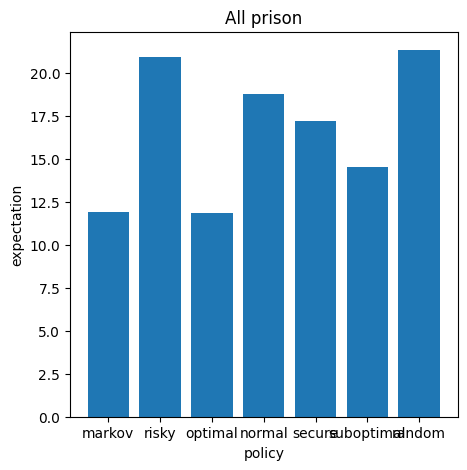
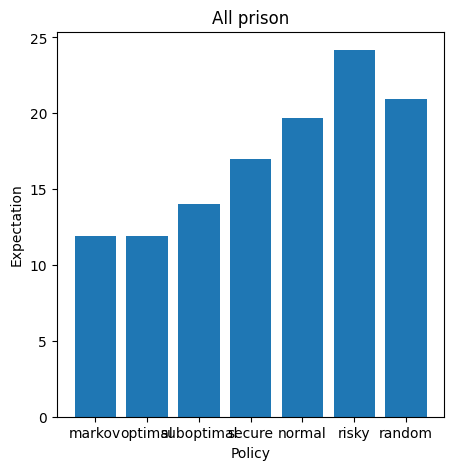
plots

Changed region(s): [[0.0, 0.0596, 0.9868, 0.983], [0.4626, 0.0, 0.6476, 0.0596]]

diff --git a/plots.py b/plots.py
@@ -12,16 +12,18 @@ layout_match = [
     ('Custom 2', layout_custom2)
 ]
 
+
 # class to store the result
 class Result:
     def __init__(self, type):
         self.type = type
         self.policy_name = None
         self.policy_dice = None
-        self.layout      = None
-        self.circle      = None
-        self.iterations  = None
+        self.layout = None
+        self.circle = None
+        self.iterations = None
         self.expectation = None
+
 
 # read file
 results = []
@@ -33,13 +35,13 @@ with open(filename, 'r') as f:
 
         elif line[0] == "new":
             results.append(Result(line[-1]))
-        
+
         elif line[0] == "name":
             results[-1].policy_name = line[-1]
-        
+
         elif line[0] == "layout":
             results[-1].layout = list(map(int, map(float, line[2:])))
-        
+
         elif line[0] == "circle":
             results[-1].circle = line[-1] == "True"
 
@@ -51,7 +53,7 @@ with open(filename, 'r') as f:
 
         elif line[0] == "expectation":
             results[-1].expectation = list(map(float, line[2:]))
-        
+
 # group by layout
 grouped = []
 for result in results:
@@ -67,12 +69,13 @@ for result in results:
         grouped.append([result])
 results = grouped
 
+
 # plot functions
-def graph_theoretical_vs_empirical() : 
+def graph_theoretical_vs_empirical():
     # for each layout
     for group in grouped:
         # create one plot
-        plt.figure(figsize=(5,5))
+        plt.figure(figsize=(5, 5))
         # get layout name
         title = "No name found for this layout"
         for layout_name, layout_tiles in layout_match:
@@ -89,10 +92,10 @@ def graph_theoretical_vs_empirical() :
         plt.bar(names, expec)
         # labels and titles
         plt.title(f"{title}")
-        plt.xlabel("policy")
-        plt.ylabel("expectation")
+        plt.xlabel("Policy")
+        plt.ylabel("Expectation")
         # save figure
-        plt.savefig(f"plots/{title.replace(' ','')}", bbox_inches='tight')
+        plt.savefig(f"plots/{title.replace(' ', '')}", bbox_inches='tight')
 
         # plotting empiric/theoric graph
         # get names and expectation
@@ -104,27 +107,32 @@ def graph_theoretical_vs_empirical() :
 
         for r in group:
             # if only plot the theory vs empiric
-            if r.circle: 
-                if r.policy_name == 'markov': plt.bar(X_axis - 0.3, r.expectation, 0.2, label='Theoretical with circle')
-                elif r.policy_name == 'optimal': plt.bar(X_axis - 0.1, r.expectation, 0.2, label='Empirical with circle')
+            if r.circle:
+                if r.policy_name == 'markov':
+                    plt.bar(X_axis - 0.3, r.expectation, 0.2, label='MDP with circle', color="#4E79A7")
+                elif r.policy_name == 'optimal':
+                    plt.bar(X_axis - 0.1, r.expectation, 0.2, label='Empirical with circle', color="#A0CBE8")
             else:
-                if r.policy_name == 'markov': plt.bar(X_axis + 0.1, r.expectation, 0.2, label='Theoretical without circle')
-                elif r.policy_name == 'optimal': plt.bar(X_axis + 0.3, r.expectation, 0.2, label='Empirical without circle')
+                if r.policy_name == 'markov':
+                    plt.bar(X_axis + 0.1, r.expectation, 0.2, label='MDP without circle', color="#F28E2B")
+                elif r.policy_name == 'optimal':
+                    plt.bar(X_axis + 0.3, r.expectation, 0.2, label='Empirical without circle', color="#FFBE7D")
 
         # labels and titles
-        title = f"{title} Empirical versus Theoretical"
+        title = f"{title} - Empirical vs MDP"
         plt.title(f"{title}")
         plt.xlabel("State")
-        plt.ylabel("expectation")
+        plt.ylabel("Expectation")
         plt.legend()
         # save figure
         plt.savefig(f"plots/{title.replace(' ', '')}", bbox_inches='tight')
 
-def graph_different_policies() : 
+
+def graph_different_policies():
     # for each layout
-    for group in grouped :
+    for group in grouped:
         # create one plot
-        plt.figure(figsize=(7,5))
+        plt.figure(figsize=(7, 5))
         # get layout name
         title = "No name found for this layout"
         for layout_name, layout_tiles in layout_match:
@@ -136,7 +144,7 @@ def graph_different_policies() :
         expec_circle = []
         names_no_circle = []
         expec_no_circle = []
-        
+
         for r in group:
             if r.circle:
                 names_circle.append(r.policy_name)
@@ -144,12 +152,14 @@ def graph_different_policies() :
             else:
                 names_no_circle.append(r.policy_name)
                 expec_no_circle.append(r.expectation[0])
-        
+
         # sort arrays
+        names_circle = ['markov', 'optimal', 'suboptimal', 'secure', 'normal', 'risky', 'random']
         idx_circle = np.argsort(names_circle)
         names_circle = np.array(names_circle)[idx_circle]
         expec_circle = np.array(expec_circle)[idx_circle]
 
+        names_no_circle = ['markov', 'optimal', 'suboptimal', 'secure', 'normal', 'risky', 'random']
         idx_no_circle = np.argsort(names_no_circle)
         names_no_circle = np.array(names_no_circle)[idx_no_circle]
         expec_no_circle = np.array(expec_no_circle)[idx_no_circle]
@@ -159,13 +169,16 @@ def graph_different_policies() :
         plt.xticks(X_axis, names_circle)
         plt.bar(X_axis - 0.2, expec_no_circle, 0.4, label='without circle')
         plt.bar(X_axis + 0.2, expec_circle, 0.4, label='with circle')
-        
+
         # labels and titles
         plt.title(f"{title}")
-        plt.xlabel("policy")
-        plt.ylabel("expectation")
+        plt.xlabel("Policy")
+        plt.ylabel("Expectation")
         plt.legend()
         # save figure
-        plt.savefig(f"plots/{title.replace(' ','')}", bbox_inches='tight')
+        plt.savefig(f"plots/{title.replace(' ', '')}", bbox_inches='tight')
 
-graph_different_policies()
+
+if __name__ == '__main__':
+    graph_different_policies()
+    graph_theoretical_vs_empirical()
